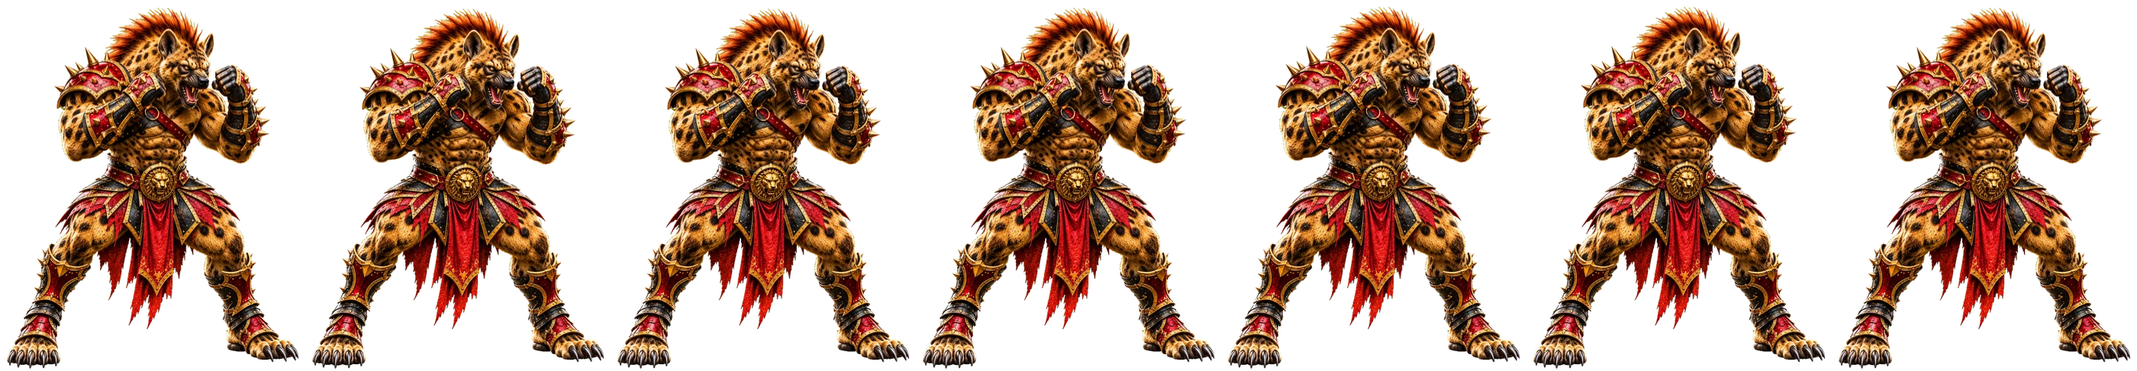
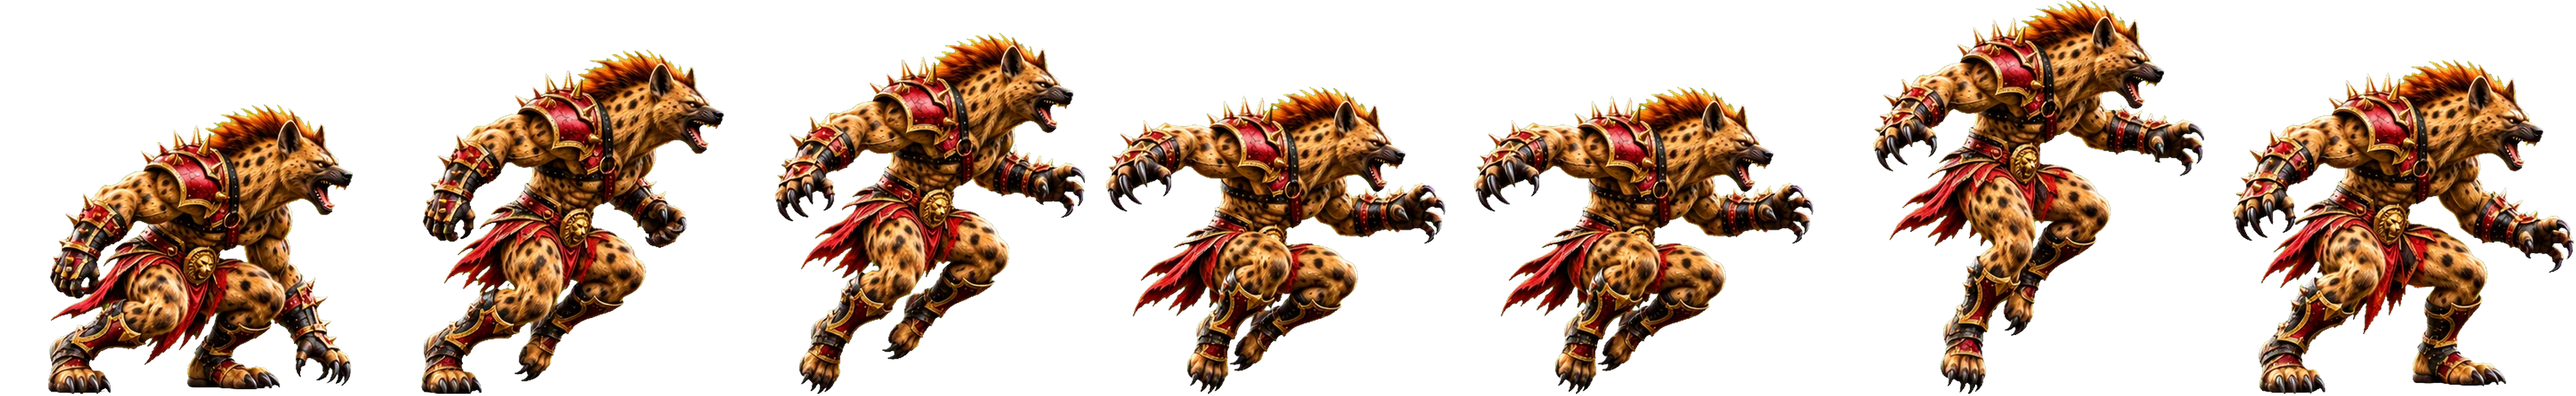
V2 preview 10.31: hyena upgraded moves (not live)
Claude-Session: https://claude.ai/code/session_01Wp8cgZvzavvyA9CxcdgKRp

diff --git a/game/js/sprites-hd.js b/game/js/sprites-hd.js
@@ -1,2 +1,2 @@
 // High-detail fighter frames (frames-hd/), used on large/sharp screens. Same layout as SPRITES.
-const SPRITES_HD={"badger":{"s":2.0,"anims":{"idle":[16,363,425,20,211],"walk_forward":[8,301,413,70,205],"walk_back":[8,301,413,70,205],"run":[8,301,413,70,205],"block":[6,374,428,21,212],"attack_light":[8,423,419,103,208],"bite":[8,364,423,92,210],"claw_swipe":[6,423,419,103,208],"attack_heavy":[8,375,518,92,257],"uppercut":[8,423,419,103,208],"pounce":[8,364,423,92,210],"special_earth_slam":[7,375,518,92,257],"shadow_rampage":[10,423,419,103,208],"victory":[8,283,476,70,236],"jump":[7,370,409,96,203],"crouch":[4,370,409,96,203],"hit_light":[4,363,423,20,210],"hit_heavy":[6,363,423,20,210],"knockdown":[9,586,417,85,207],"knockdown_getup":[6,339,413,86,205],"defeat":[5,586,417,85,207]}},"crocodile":{"s":2.0,"anims":{"idle":[16,658,534,187,264],"walk_forward":[8,608,531,178,263],"walk_back":[8,608,531,178,263],"run":[8,608,531,178,263],"block":[6,617,527,168,261],"attack_light":[8,751,527,215,261],"bite":[8,682,533,187,264],"special_pounce":[6,751,527,215,261],"attack_heavy":[8,848,567,214,281],"uppercut":[7,848,567,214,281],"victory":[8,559,554,150,274],"jump":[7,794,476,233,235],"hit_light":[4,653,531,187,263],"hit_heavy":[6,653,531,187,263],"knockdown":[9,975,530,141,263],"knockdown_getup":[6,1340,513,355,254],"defeat":[5,975,530,141,263]}},"elephant":{"s":2.0,"anims":{"idle":[16,725,684,177,339],"walk_forward":[8,788,690,175,341],"walk_back":[8,788,690,175,341],"run":[8,788,690,175,341],"block":[6,717,696,179,344],"attack_light":[8,1010,683,214,338],"bite":[8,768,683,185,338],"special_pounce":[6,1010,683,214,338],"attack_heavy":[8,1018,727,253,360],"uppercut":[7,1018,727,253,360],"victory":[8,768,683,185,338],"jump":[7,717,696,179,344],"hit_light":[4,724,682,178,337],"hit_heavy":[6,724,682,178,337],"knockdown":[9,1092,696,385,345],"knockdown_getup":[6,1092,696,385,345],"defeat":[5,1092,696,385,345]}},"grizzly":{"s":2.0,"anims":{"idle":[16,484,632,126,314],"walk_forward":[8,529,619,141,307],"walk_back":[8,529,619,141,307],"run":[8,529,619,141,307],"block":[6,518,624,129,310],"attack_light":[8,587,631,161,313],"bite":[8,511,630,132,313],"special_pounce":[6,587,631,161,313],"attack_heavy":[8,861,616,203,306],"uppercut":[7,861,616,203,306],"victory":[8,549,640,138,318],"jump":[7,728,597,190,296],"hit_light":[4,485,629,127,312],"hit_heavy":[6,485,629,127,312],"knockdown":[9,804,634,94,315],"knockdown_getup":[6,809,616,204,306],"defeat":[5,804,634,94,315]}},"hippo":{"s":2.0,"anims":{"idle":[16,743,653,181,323],"walk_forward":[8,458,633,110,313],"walk_back":[8,458,633,110,313],"run":[8,458,633,110,313],"block":[6,684,640,170,316],"attack_light":[8,1009,649,213,321],"bite":[8,788,652,189,323],"special_pounce":[6,1009,649,213,321],"attack_heavy":[8,571,745,156,369],"uppercut":[7,571,745,156,369],"victory":[8,486,742,120,368],"jump":[7,532,648,126,320],"hit_light":[4,747,650,184,322],"hit_heavy":[6,747,650,184,322],"knockdown":[9,1058,681,164,338],"knockdown_getup":[6,552,632,123,312],"defeat":[5,1058,681,164,338]}},"hyena":{"s":2.0,"anims":{"idle":[16,337,491,83,243],"walk_forward":[8,397,486,111,241],"walk_back":[8,397,486,111,241],"run":[8,397,486,111,241],"block":[6,400,486,100,241],"attack_light":[8,451,479,112,238],"bite":[8,355,489,87,243],"special_pounce":[6,355,489,87,243],"attack_heavy":[8,398,431,99,214],"uppercut":[7,451,479,112,238],"victory":[8,355,489,87,243],"jump":[7,400,486,100,241],"hit_light":[4,338,488,84,242],"hit_heavy":[6,338,488,84,242],"knockdown":[9,633,490,78,243],"knockdown_getup":[6,633,490,78,243],"defeat":[5,633,490,78,243]}},"jaguar":{"s":2.0,"anims":{"idle":[16,539,506,129,251],"walk_forward":[8,406,473,72,234],"walk_back":[8,406,473,72,234],"run":[8,406,473,72,234],"block":[6,354,501,25,248],"attack_light":[8,483,488,131,242],"bite":[8,558,504,129,250],"special_pounce":[6,483,488,131,242],"attack_heavy":[8,581,421,132,208],"uppercut":[7,581,421,132,208],"victory":[8,558,504,129,250],"jump":[7,354,501,25,248],"hit_light":[4,537,504,128,250],"hit_heavy":[6,537,504,128,250],"knockdown":[9,719,518,244,257],"knockdown_getup":[6,719,518,244,257],"defeat":[5,719,518,244,257]}},"leopard":{"s":2.0,"anims":{"idle":[16,471,515,22,255],"walk_forward":[8,307,485,87,240],"walk_back":[8,307,485,87,240],"run":[8,307,485,87,240],"dash":[4,307,485,87,240],"crouch":[3,428,517,102,256],"block":[6,443,509,31,253],"attack_light":[8,482,494,122,245],"bite":[8,482,514,22,255],"special_pounce":[6,482,494,122,245],"special_b":[8,482,514,22,255],"special_c":[5,482,494,122,245],"special_d":[14,482,494,122,245],"ultra_move":[5,452,555,97,276],"attack_heavy":[8,452,555,97,276],"uppercut":[7,452,555,97,276],"victory":[8,375,543,102,269],"jump":[7,428,517,102,256],"hit_light":[4,470,513,22,255],"hit_heavy":[6,470,513,22,255],"knockdown":[9,868,555,240,276],"knockdown_getup":[6,432,450,101,223],"defeat":[5,868,555,240,276]}},"lion":{"s":2.0,"anims":{"idle":[16,386,563,98,271],"walk_forward":[8,349,525,100,261],"walk_back":[8,349,525,100,261],"run":[8,349,525,100,261],"block":[6,382,412,96,204],"attack_light":[8,740,471,151,234],"bite":[8,740,471,151,234],"special_pounce":[6,740,471,151,234],"attack_heavy":[8,465,593,101,295],"uppercut":[7,465,593,101,295],"victory":[8,430,596,105,296],"jump":[7,521,546,122,271],"hit_light":[4,367,533,94,265],"hit_heavy":[6,367,533,94,265],"knockdown":[9,694,536,268,267],"knockdown_getup":[6,468,525,132,261],"defeat":[5,694,536,268,267]}},"tiger":{"s":2.0,"anims":{"idle":[16,499,538,126,267],"walk_forward":[8,508,526,125,261],"walk_back":[8,508,526,125,261],"run":[8,508,526,125,261],"block":[6,483,530,120,263],"attack_light":[8,520,524,132,260],"bite":[8,518,537,127,266],"special_pounce":[6,520,524,132,260],"attack_heavy":[8,713,548,164,272],"uppercut":[7,713,548,164,272],"victory":[8,459,544,114,270],"jump":[7,623,588,160,292],"hit_light":[4,496,536,126,266],"hit_heavy":[6,496,536,126,266],"knockdown":[9,750,543,261,270],"knockdown_getup":[6,600,526,141,261],"defeat":[5,750,543,261,270]}},"wolf":{"s":2.0,"anims":{"idle":[16,409,498,107,247],"walk_forward":[8,423,498,110,247],"walk_back":[8,423,498,110,247],"run":[8,423,498,110,247],"block":[6,404,490,104,244],"attack_light":[8,445,398,123,197],"bite":[8,447,340,119,168],"special_pounce":[6,447,340,119,168],"attack_heavy":[8,600,459,134,228],"uppercut":[7,600,459,134,228],"victory":[8,416,505,100,251],"jump":[7,563,416,136,206],"hit_light":[4,404,497,104,247],"hit_heavy":[6,404,497,104,247],"knockdown":[9,670,503,243,250],"knockdown_getup":[6,387,488,99,242],"defeat":[5,670,503,243,250]}},"majic":{"s":2.0,"anims":{"idle":[16,742,799,187,396],"walk_forward":[8,818,805,185,399],"walk_back":[8,818,805,185,399],"run":[8,818,805,185,399],"dash":[4,818,805,185,399],"crouch":[3,783,702,200,348],"block":[6,739,792,62,393],"attack_light":[8,808,714,216,354],"bite":[8,773,798,193,396],"special_pounce":[6,773,798,193,396],"special_b":[6,808,714,216,354],"special_c":[5,773,798,193,396],"special_d":[5,749,763,180,379],"ultra_move":[10,808,714,216,354],"attack_heavy":[8,749,763,180,379],"uppercut":[7,749,763,180,379],"victory":[8,823,812,205,403],"jump":[7,783,702,200,348],"hit_light":[4,746,795,190,395],"hit_heavy":[6,746,795,190,395],"knockdown":[9,1082,819,398,407],"knockdown_getup":[6,793,780,206,387],"defeat":[5,1082,819,398,407]}},"snake":{"s":2.0,"anims":{"idle":[16,498,552,122,274],"walk_forward":[8,525,525,147,261],"walk_back":[8,525,525,147,261],"run":[8,525,525,147,261],"crouch":[3,533,495,126,245],"block":[6,469,547,25,272],"attack_light":[8,532,537,123,267],"bite":[8,498,551,122,274],"special_pounce":[6,498,551,122,274],"special_b":[6,532,537,123,267],"special_c":[5,498,551,122,274],"special_d":[5,600,546,143,271],"ultra_move":[10,532,537,123,267],"attack_heavy":[8,600,546,143,271],"uppercut":[7,600,546,143,271],"victory":[8,412,570,105,283],"jump":[7,533,495,126,245],"hit_light":[4,498,550,122,273],"hit_heavy":[6,498,550,122,273],"knockdown":[9,778,548,271,272],"knockdown_getup":[6,609,538,125,267],"defeat":[5,778,548,271,272]}},"eagle":{"s":2.0,"anims":{"idle":[16,486,526,121,261],"walk_forward":[8,501,514,100,255],"walk_back":[8,501,514,100,255],"run":[8,501,514,100,255],"crouch":[3,681,479,179,237],"block":[6,483,520,108,258],"attack_light":[8,500,526,124,261],"bite":[8,502,525,125,260],"special_pounce":[6,502,525,125,260],"special_b":[6,500,526,124,261],"ultra_move":[10,500,526,124,261],"attack_heavy":[8,603,494,151,245],"uppercut":[7,603,494,151,245],"victory":[8,550,541,139,269],"jump":[7,681,479,179,237],"hit_light":[4,487,522,122,259],"hit_heavy":[6,487,522,122,259],"knockdown":[9,692,536,255,266],"knockdown_getup":[6,480,513,99,255],"defeat":[5,692,536,255,266]}},"stag":{"s":2.0,"anims":{"idle":[16,341,572,85,283],"walk_forward":[8,450,569,111,282],"walk_back":[8,450,569,111,282],"run":[8,450,569,111,282],"crouch":[3,543,734,154,365],"block":[6,453,553,113,274],"attack_light":[8,539,540,118,268],"bite":[8,358,571,85,283],"special_pounce":[6,358,571,85,283],"special_b":[6,539,540,118,268],"special_c":[5,358,571,85,283],"special_d":[5,453,612,113,304],"ultra_move":[10,539,540,118,268],"attack_heavy":[8,453,612,113,304],"uppercut":[7,453,612,113,304],"victory":[8,512,565,127,280],"jump":[7,543,734,154,365],"hit_light":[4,341,570,85,282],"hit_heavy":[6,341,570,85,282],"knockdown":[9,734,584,285,290],"knockdown_getup":[6,507,558,164,277],"defeat":[5,734,584,285,290]}}};
+const SPRITES_HD={"badger":{"s":2.0,"anims":{"idle":[16,363,425,20,211],"walk_forward":[8,301,413,70,205],"walk_back":[8,301,413,70,205],"run":[8,301,413,70,205],"block":[6,374,428,21,212],"attack_light":[8,423,419,103,208],"bite":[8,364,423,92,210],"claw_swipe":[6,423,419,103,208],"attack_heavy":[8,375,518,92,257],"uppercut":[8,423,419,103,208],"pounce":[8,364,423,92,210],"special_earth_slam":[7,375,518,92,257],"shadow_rampage":[10,423,419,103,208],"victory":[8,283,476,70,236],"jump":[7,370,409,96,203],"crouch":[4,370,409,96,203],"hit_light":[4,363,423,20,210],"hit_heavy":[6,363,423,20,210],"knockdown":[9,586,417,85,207],"knockdown_getup":[6,339,413,86,205],"defeat":[5,586,417,85,207]}},"crocodile":{"s":2.0,"anims":{"idle":[16,658,534,187,264],"walk_forward":[8,608,531,178,263],"walk_back":[8,608,531,178,263],"run":[8,608,531,178,263],"block":[6,617,527,168,261],"attack_light":[8,751,527,215,261],"bite":[8,682,533,187,264],"special_pounce":[6,751,527,215,261],"attack_heavy":[8,848,567,214,281],"uppercut":[7,848,567,214,281],"victory":[8,559,554,150,274],"jump":[7,794,476,233,235],"hit_light":[4,653,531,187,263],"hit_heavy":[6,653,531,187,263],"knockdown":[9,975,530,141,263],"knockdown_getup":[6,1340,513,355,254],"defeat":[5,975,530,141,263]}},"elephant":{"s":2.0,"anims":{"idle":[16,725,684,177,339],"walk_forward":[8,788,690,175,341],"walk_back":[8,788,690,175,341],"run":[8,788,690,175,341],"block":[6,717,696,179,344],"attack_light":[8,1010,683,214,338],"bite":[8,768,683,185,338],"special_pounce":[6,1010,683,214,338],"attack_heavy":[8,1018,727,253,360],"uppercut":[7,1018,727,253,360],"victory":[8,768,683,185,338],"jump":[7,717,696,179,344],"hit_light":[4,724,682,178,337],"hit_heavy":[6,724,682,178,337],"knockdown":[9,1092,696,385,345],"knockdown_getup":[6,1092,696,385,345],"defeat":[5,1092,696,385,345]}},"grizzly":{"s":2.0,"anims":{"idle":[16,484,632,126,314],"walk_forward":[8,529,619,141,307],"walk_back":[8,529,619,141,307],"run":[8,529,619,141,307],"block":[6,518,624,129,310],"attack_light":[8,587,631,161,313],"bite":[8,511,630,132,313],"special_pounce":[6,587,631,161,313],"attack_heavy":[8,861,616,203,306],"uppercut":[7,861,616,203,306],"victory":[8,549,640,138,318],"jump":[7,728,597,190,296],"hit_light":[4,485,629,127,312],"hit_heavy":[6,485,629,127,312],"knockdown":[9,804,634,94,315],"knockdown_getup":[6,809,616,204,306],"defeat":[5,804,634,94,315]}},"hippo":{"s":2.0,"anims":{"idle":[16,743,653,181,323],"walk_forward":[8,458,633,110,313],"walk_back":[8,458,633,110,313],"run":[8,458,633,110,313],"block":[6,684,640,170,316],"attack_light":[8,1009,649,213,321],"bite":[8,788,652,189,323],"special_pounce":[6,1009,649,213,321],"attack_heavy":[8,571,745,156,369],"uppercut":[7,571,745,156,369],"victory":[8,486,742,120,368],"jump":[7,532,648,126,320],"hit_light":[4,747,650,184,322],"hit_heavy":[6,747,650,184,322],"knockdown":[9,1058,681,164,338],"knockdown_getup":[6,552,632,123,312],"defeat":[5,1058,681,164,338]}},"hyena":{"s":2.0,"anims":{"idle":[16,337,491,83,243],"walk_forward":[8,389,479,93,238],"walk_back":[8,389,479,93,238],"run":[8,389,479,93,238],"block":[6,400,486,100,241],"attack_light":[8,451,479,112,238],"bite":[8,355,489,87,243],"special_pounce":[6,355,489,87,243],"attack_heavy":[8,484,526,132,261],"uppercut":[7,451,479,112,238],"victory":[8,418,492,106,244],"jump":[7,482,519,121,257],"hit_light":[4,338,488,84,242],"hit_heavy":[6,338,488,84,242],"knockdown":[9,633,490,78,243],"knockdown_getup":[6,565,478,121,237],"defeat":[5,633,490,78,243]}},"jaguar":{"s":2.0,"anims":{"idle":[16,539,506,129,251],"walk_forward":[8,406,473,72,234],"walk_back":[8,406,473,72,234],"run":[8,406,473,72,234],"block":[6,354,501,25,248],"attack_light":[8,483,488,131,242],"bite":[8,558,504,129,250],"special_pounce":[6,483,488,131,242],"attack_heavy":[8,581,421,132,208],"uppercut":[7,581,421,132,208],"victory":[8,558,504,129,250],"jump":[7,354,501,25,248],"hit_light":[4,537,504,128,250],"hit_heavy":[6,537,504,128,250],"knockdown":[9,719,518,244,257],"knockdown_getup":[6,719,518,244,257],"defeat":[5,719,518,244,257]}},"leopard":{"s":2.0,"anims":{"idle":[16,471,515,22,255],"walk_forward":[8,307,485,87,240],"walk_back":[8,307,485,87,240],"run":[8,307,485,87,240],"dash":[4,307,485,87,240],"crouch":[3,428,517,102,256],"block":[6,443,509,31,253],"attack_light":[8,482,494,122,245],"bite":[8,482,514,22,255],"special_pounce":[6,482,494,122,245],"special_b":[8,482,514,22,255],"special_c":[5,482,494,122,245],"special_d":[14,482,494,122,245],"ultra_move":[5,452,555,97,276],"attack_heavy":[8,452,555,97,276],"uppercut":[7,452,555,97,276],"victory":[8,375,543,102,269],"jump":[7,428,517,102,256],"hit_light":[4,470,513,22,255],"hit_heavy":[6,470,513,22,255],"knockdown":[9,868,555,240,276],"knockdown_getup":[6,432,450,101,223],"defeat":[5,868,555,240,276]}},"lion":{"s":2.0,"anims":{"idle":[16,386,563,98,271],"walk_forward":[8,349,525,100,261],"walk_back":[8,349,525,100,261],"run":[8,349,525,100,261],"block":[6,382,412,96,204],"attack_light":[8,740,471,151,234],"bite":[8,740,471,151,234],"special_pounce":[6,740,471,151,234],"attack_heavy":[8,465,593,101,295],"uppercut":[7,465,593,101,295],"victory":[8,430,596,105,296],"jump":[7,521,546,122,271],"hit_light":[4,367,533,94,265],"hit_heavy":[6,367,533,94,265],"knockdown":[9,694,536,268,267],"knockdown_getup":[6,468,525,132,261],"defeat":[5,694,536,268,267]}},"tiger":{"s":2.0,"anims":{"idle":[16,499,538,126,267],"walk_forward":[8,508,526,125,261],"walk_back":[8,508,526,125,261],"run":[8,508,526,125,261],"block":[6,483,530,120,263],"attack_light":[8,520,524,132,260],"bite":[8,518,537,127,266],"special_pounce":[6,520,524,132,260],"attack_heavy":[8,713,548,164,272],"uppercut":[7,713,548,164,272],"victory":[8,459,544,114,270],"jump":[7,623,588,160,292],"hit_light":[4,496,536,126,266],"hit_heavy":[6,496,536,126,266],"knockdown":[9,750,543,261,270],"knockdown_getup":[6,600,526,141,261],"defeat":[5,750,543,261,270]}},"wolf":{"s":2.0,"anims":{"idle":[16,409,498,107,247],"walk_forward":[8,423,498,110,247],"walk_back":[8,423,498,110,247],"run":[8,423,498,110,247],"block":[6,404,490,104,244],"attack_light":[8,445,398,123,197],"bite":[8,447,340,119,168],"special_pounce":[6,447,340,119,168],"attack_heavy":[8,600,459,134,228],"uppercut":[7,600,459,134,228],"victory":[8,416,505,100,251],"jump":[7,563,416,136,206],"hit_light":[4,404,497,104,247],"hit_heavy":[6,404,497,104,247],"knockdown":[9,670,503,243,250],"knockdown_getup":[6,387,488,99,242],"defeat":[5,670,503,243,250]}},"majic":{"s":2.0,"anims":{"idle":[16,742,799,187,396],"walk_forward":[8,818,805,185,399],"walk_back":[8,818,805,185,399],"run":[8,818,805,185,399],"dash":[4,818,805,185,399],"crouch":[3,783,702,200,348],"block":[6,739,792,62,393],"attack_light":[8,808,714,216,354],"bite":[8,773,798,193,396],"special_pounce":[6,773,798,193,396],"special_b":[6,808,714,216,354],"special_c":[5,773,798,193,396],"special_d":[5,749,763,180,379],"ultra_move":[10,808,714,216,354],"attack_heavy":[8,749,763,180,379],"uppercut":[7,749,763,180,379],"victory":[8,823,812,205,403],"jump":[7,783,702,200,348],"hit_light":[4,746,795,190,395],"hit_heavy":[6,746,795,190,395],"knockdown":[9,1082,819,398,407],"knockdown_getup":[6,793,780,206,387],"defeat":[5,1082,819,398,407]}},"snake":{"s":2.0,"anims":{"idle":[16,498,552,122,274],"walk_forward":[8,525,525,147,261],"walk_back":[8,525,525,147,261],"run":[8,525,525,147,261],"crouch":[3,533,495,126,245],"block":[6,469,547,25,272],"attack_light":[8,532,537,123,267],"bite":[8,498,551,122,274],"special_pounce":[6,498,551,122,274],"special_b":[6,532,537,123,267],"special_c":[5,498,551,122,274],"special_d":[5,600,546,143,271],"ultra_move":[10,532,537,123,267],"attack_heavy":[8,600,546,143,271],"uppercut":[7,600,546,143,271],"victory":[8,412,570,105,283],"jump":[7,533,495,126,245],"hit_light":[4,498,550,122,273],"hit_heavy":[6,498,550,122,273],"knockdown":[9,778,548,271,272],"knockdown_getup":[6,609,538,125,267],"defeat":[5,778,548,271,272]}},"eagle":{"s":2.0,"anims":{"idle":[16,486,526,121,261],"walk_forward":[8,501,514,100,255],"walk_back":[8,501,514,100,255],"run":[8,501,514,100,255],"crouch":[3,681,479,179,237],"block":[6,483,520,108,258],"attack_light":[8,500,526,124,261],"bite":[8,502,525,125,260],"special_pounce":[6,502,525,125,260],"special_b":[6,500,526,124,261],"ultra_move":[10,500,526,124,261],"attack_heavy":[8,603,494,151,245],"uppercut":[7,603,494,151,245],"victory":[8,550,541,139,269],"jump":[7,681,479,179,237],"hit_light":[4,487,522,122,259],"hit_heavy":[6,487,522,122,259],"knockdown":[9,692,536,255,266],"knockdown_getup":[6,480,513,99,255],"defeat":[5,692,536,255,266]}},"stag":{"s":2.0,"anims":{"idle":[16,341,572,85,283],"walk_forward":[8,450,569,111,282],"walk_back":[8,450,569,111,282],"run":[8,450,569,111,282],"crouch":[3,543,734,154,365],"block":[6,453,553,113,274],"attack_light":[8,539,540,118,268],"bite":[8,358,571,85,283],"special_pounce":[6,358,571,85,283],"special_b":[6,539,540,118,268],"special_c":[5,358,571,85,283],"special_d":[5,453,612,113,304],"ultra_move":[10,539,540,118,268],"attack_heavy":[8,453,612,113,304],"uppercut":[7,453,612,113,304],"victory":[8,512,565,127,280],"jump":[7,543,734,154,365],"hit_light":[4,341,570,85,282],"hit_heavy":[6,341,570,85,282],"knockdown":[9,734,584,285,290],"knockdown_getup":[6,507,558,164,277],"defeat":[5,734,584,285,290]}}};

diff --git a/game/js/game.js b/game/js/game.js
@@ -1688,9 +1688,9 @@ const SPRITES={
  hippo:{s:0.6,anims:{"idle":[16,223,196,181,323],"walk_forward":[8,137,190,110,313],"walk_back":[8,137,190,110,313],"run":[8,137,190,110,313],"block":[6,205,192,170,316],"attack_light":[8,303,195,213,321],"bite":[8,236,196,189,323],"special_pounce":[6,303,195,213,321],"attack_heavy":[8,171,223,156,369],"uppercut":[7,171,223,156,369],"victory":[8,146,223,120,368],"jump":[7,160,194,126,320],"hit_light":[4,224,195,184,322],"hit_heavy":[6,224,195,184,322],"knockdown":[9,318,204,164,338],"knockdown_getup":[6,166,189,123,312],"defeat":[5,318,204,164,338]},
   double:['attack_heavy','bite'],special:'special_pounce',shadow:null,ultra:['attack_heavy','bite','attack_heavy','uppercut'],
   fall:['knockdown',[0,1,2,3,4,5]],getup:['knockdown_getup',[0,1,2,3,4,5]],ko:['knockdown',8]},
- hyena:{s:0.6,anims:{"idle":[16,101,147,83,243],"walk_forward":[8,119,146,111,241],"walk_back":[8,119,146,111,241],"run":[8,119,146,111,241],"block":[6,120,146,100,241],"attack_light":[8,135,144,112,238],"bite":[8,107,147,87,243],"special_pounce":[6,107,147,87,243],"attack_heavy":[8,119,129,99,214],"uppercut":[7,135,144,112,238],"victory":[8,107,147,87,243],"jump":[7,120,146,100,241],"hit_light":[4,101,146,84,242],"hit_heavy":[6,101,146,84,242],"knockdown":[9,190,147,78,243],"knockdown_getup":[6,190,147,78,243],"defeat":[5,190,147,78,243]},
+ hyena:{s:0.6,anims:{"idle":[16,101,147,83,243],"walk_forward":[8,117,144,93,238],"walk_back":[8,117,144,93,238],"run":[8,117,144,93,238],"block":[6,120,146,100,241],"attack_light":[8,135,144,112,238],"bite":[8,107,147,87,243],"special_pounce":[6,107,147,87,243],"attack_heavy":[8,145,158,132,261],"uppercut":[7,135,144,112,238],"victory":[8,125,148,106,244],"jump":[7,144,156,121,257],"hit_light":[4,101,146,84,242],"hit_heavy":[6,101,146,84,242],"knockdown":[9,190,147,78,243],"knockdown_getup":[6,169,143,121,237],"defeat":[5,190,147,78,243]},
   double:['attack_heavy','attack_light'],special:'special_pounce',shadow:null,ultra:['bite','attack_heavy','uppercut','attack_light'],
-  fall:['knockdown',[0,1,2,3,4,5]],getup:['knockdown',[7,3,2,1,0]],ko:['knockdown',8]},
+  fall:['knockdown',[0,1,2,3,4,5]],getup:['knockdown_getup',[0,1,2,3,4,5]],ko:['knockdown',8]},
  jaguar:{s:0.6,anims:{"idle":[16,162,152,129,251],"walk_forward":[8,122,142,72,234],"walk_back":[8,122,142,72,234],"run":[8,122,142,72,234],"block":[6,106,150,25,248],"attack_light":[8,145,147,131,242],"bite":[8,168,151,129,250],"special_pounce":[6,145,147,131,242],"attack_heavy":[8,174,126,132,208],"uppercut":[7,174,126,132,208],"victory":[8,168,151,129,250],"jump":[7,106,150,25,248],"hit_light":[4,161,151,128,250],"hit_heavy":[6,161,151,128,250],"knockdown":[9,216,155,244,257],"knockdown_getup":[6,216,155,244,257],"defeat":[5,216,155,244,257]},
   double:['attack_heavy','bite'],special:'special_pounce',shadow:null,ultra:['attack_heavy','bite','uppercut','attack_light'],
   fall:['knockdown',[0,1,2,3,4,5]],getup:['knockdown',[7,3,2,1,0]],ko:['knockdown',8]},
@@ -1707,11 +1707,11 @@ const SPRITES={
   double:['attack_heavy','attack_light'],special:'special_pounce',shadow:null,ultra:['attack_light','attack_heavy','uppercut','bite'],
   fall:['knockdown',[0,1,2,3,4,5]],getup:['knockdown_getup',[0,1,2,3,4,5]],ko:['knockdown',8]}
 };
-const spriteImg={};for(const id in SPRITES){spriteImg[id]={};for(const k in SPRITES[id].anims){const im=new Image();im.src='assets/characters/'+id+'/frames/'+k+'.webp?v=10.30';spriteImg[id][k]=im}}
+const spriteImg={};for(const id in SPRITES){spriteImg[id]={};for(const k in SPRITES[id].anims){const im=new Image();im.src='assets/characters/'+id+'/frames/'+k+'.webp?v=10.31';spriteImg[id][k]=im}}
 // High-detail art for big, sharp screens (laptops, TVs, 4K): loaded per fight, only for the two fighters in it.
 const HD=typeof SPRITES_HD!=='undefined'?SPRITES_HD:{},spriteHD={};
 function wantHD(){const r=$('game-canvas').getBoundingClientRect(),d=Math.min(window.devicePixelRatio||1,3);return r.height*d>=560}
-function loadHD(id){if(!HD[id]||spriteHD[id])return;spriteHD[id]={};for(const k in HD[id].anims){const im=new Image();im.decoding='async';im.src='assets/characters/'+id+'/frames-hd/'+k+'.webp?v=10.30';spriteHD[id][k]=im}}
+function loadHD(id){if(!HD[id]||spriteHD[id])return;spriteHD[id]={};for(const k in HD[id].anims){const im=new Image();im.decoding='async';im.src='assets/characters/'+id+'/frames-hd/'+k+'.webp?v=10.31';spriteHD[id][k]=im}}
 const c=$('game-canvas').getContext('2d');
 function draw(){
  const canvas=$('game-canvas'),rect=canvas.getBoundingClientRect(),dpr=Math.min(window.devicePixelRatio||1,3),w=1100,h=520;

diff --git a/game/index.html b/game/index.html
@@ -17,7 +17,7 @@
   s.addEventListener('pointerdown',go);addEventListener('keydown',function(e){if(!done){go(e)}},{capture:true,once:true});(function pad(){if(done)return;var g=navigator.getGamepads?[].slice.call(navigator.getGamepads()):[];if(g.some(function(x){return x&&x.buttons.some(function(b){return b.pressed})})){go();return}requestAnimationFrame(pad)})()})();</script>
   <div id="backdrop" aria-hidden="true"><div class="bd-img bd-a"></div><div class="bd-img bd-b"></div><div class="bd-rays"></div><div class="bd-vignette"></div><canvas id="bd-embers"></canvas></div>
   <main id="app">
-    <header class="topbar"><img class="brand-crown" src="assets/ui/crown.webp" alt=""><div><div class="eyebrow">A LEGACY UNLEASHED</div><h1>KING OF THE JUNGLE</h1></div><div class="build-tag">V2 PREVIEW · 10.30 (not live)</div></header>
+    <header class="topbar"><img class="brand-crown" src="assets/ui/crown.webp" alt=""><div><div class="eyebrow">A LEGACY UNLEASHED</div><h1>KING OF THE JUNGLE</h1></div><div class="build-tag">V2 PREVIEW · 10.31 (not live)</div></header>
     <section id="menu" class="screen cover">
       <div class="cover-bg"></div><div class="cover-rays"></div><canvas id="embers" class="cover-embers"></canvas><div class="cover-vignette"></div>
       <div class="cover-hero"><div class="hero-glow"></div><img src="assets/characters/lion/lion-hero.webp" alt="The Lion, King of the Jungle"></div>
@@ -42,7 +42,7 @@
         </div>
       </div>
       <div class="cover-roster"><span>11 FIGHTERS · ONE THRONE</span><div id="cover-faces"></div></div>
-      <div class="cover-meta"><span id="cover-build">V2 PREVIEW · 10.30 (not live)</span><span>© King of the Jungle · J. Hardy</span></div>
+      <div class="cover-meta"><span id="cover-build">V2 PREVIEW · 10.31 (not live)</span><span>© King of the Jungle · J. Hardy</span></div>
     </section>
     <section id="select" class="screen hidden v2sel">
       <div class="select-title"><img class="st-crown" src="assets/ui/crown.webp" alt=""><h2 class="st-main">KING <small>OF THE</small> JUNGLE</h2><p class="st-sub">CHARACTER SELECT</p><p id="select-instruction">Player 1: choose a fighter</p></div>
@@ -114,7 +114,7 @@
     </section>
     <footer><span>© KING OF THE JUNGLE</span><span>Created and Developed by J. Hardy</span></footer>
   </main>
-  <script src="js/roster.js?v=7.1"></script><script src="js/story.js?v=7.7"></script><script src="js/sprites-hd.js?v=10.30"></script><script src="js/audio.js?v=9.12"></script><script src="js/hitboxes.js?v=8.0"></script><script src="js/net.js?v=7.1"></script><script src="js/game.js?v=10.30"></script>
+  <script src="js/roster.js?v=7.1"></script><script src="js/story.js?v=7.7"></script><script src="js/sprites-hd.js?v=10.31"></script><script src="js/audio.js?v=9.12"></script><script src="js/hitboxes.js?v=8.0"></script><script src="js/net.js?v=7.1"></script><script src="js/game.js?v=10.31"></script>
 <script>(function(){var last=0;
 document.addEventListener('gesturestart',function(e){e.preventDefault()},{passive:false});
 document.addEventListener('gesturechange',function(e){e.preventDefault()},{passive:false});
